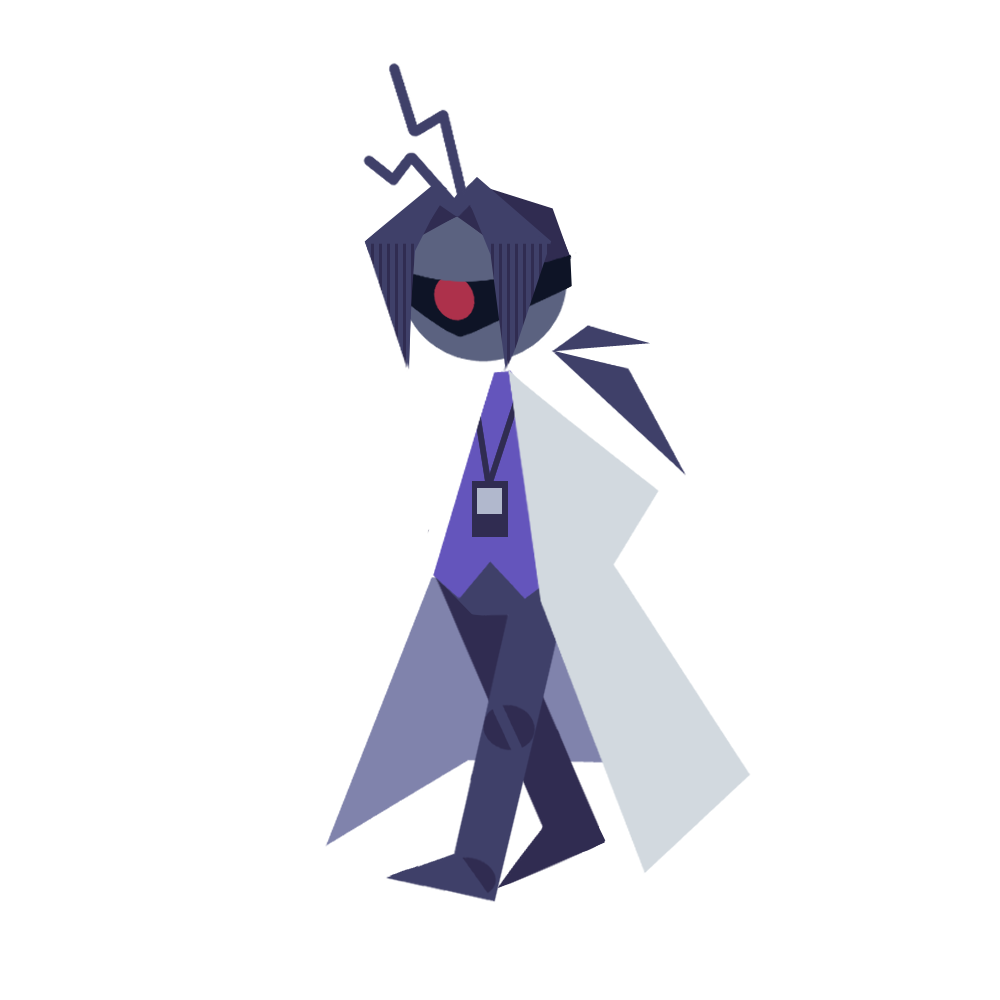
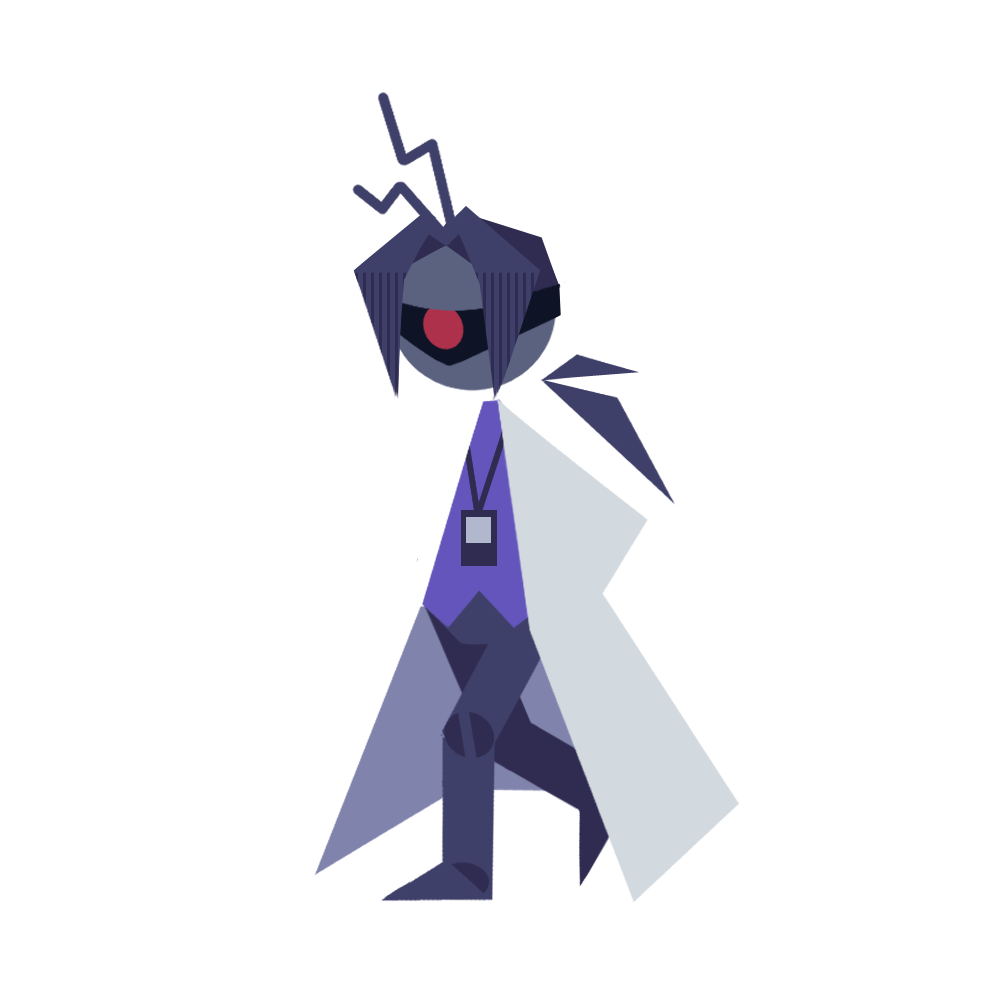
Slightly modified scientist walk animation

Changed region(s): [[0.31, 0.062, 0.744, 0.899]]

diff --git a/src/ecs/systems/world_init.cpp b/src/ecs/systems/world_init.cpp
@@ -1258,9 +1258,9 @@ Entity createEnemy(RenderSystem *renderer, vec2 pos, EnemyType type)
 
 	if (type == EnemyType::ScientistBoss) {
 		auto& animate = registry.animations.emplace(entity);
-		animate.max_frames = 30; 
-		animate.animation_countdown = 18;
-		animate.animation_countdown_base = 18;
+		animate.max_frames = 24; 
+		animate.animation_countdown = 36;
+		animate.animation_countdown_base = 36;
 	}
 
 	if (type == EnemyType::BossBeehiveMain)

diff --git a/src/ecs/components/premades.hpp b/src/ecs/components/premades.hpp
@@ -2709,7 +2709,7 @@ struct ScientistSheildEnemy : Enemy
 			GEOMETRY_BUFFER_ID::SPRITE,
 		};
 		patternIndex = 0;
-		scale = vec2(250, 250);
+		scale = vec2(300, 300);
 		rotatePower = 0.f;
 	}
 };

diff --git a/src/ecs/systems/enemy_system.hpp b/src/ecs/systems/enemy_system.hpp
@@ -7,7 +7,7 @@
 #include "tiny_ecs.hpp"
 #include "render_system.hpp"
 
-#define MAX_ENEMY_SPAWN 350
+#define MAX_ENEMY_SPAWN 300
 
 class SoundSystem;
 class EnemySystem
